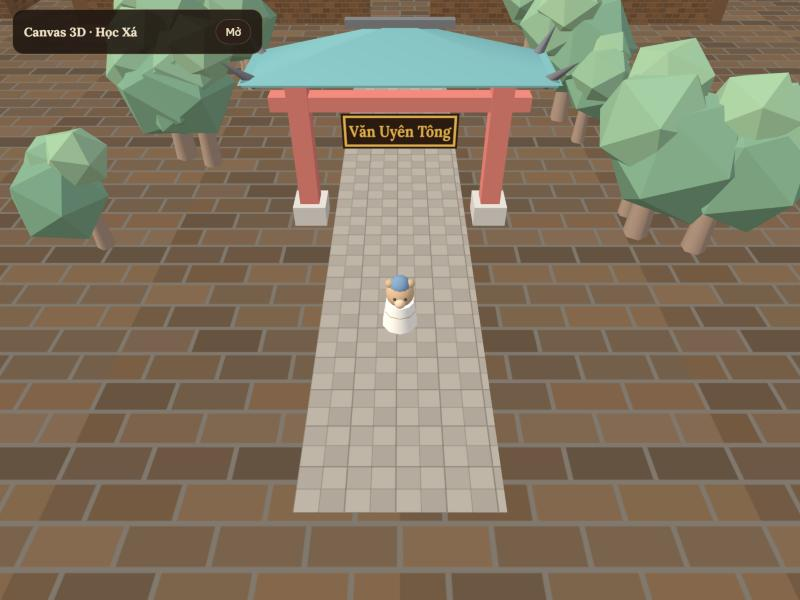
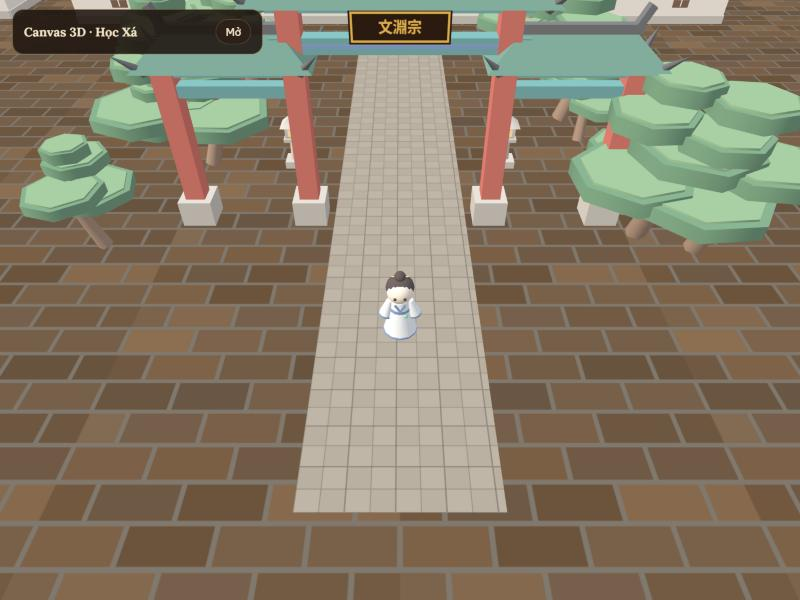
design 2026-11-11.2: bật phong cách Trung Hoa — tường vôi cổng trăng, tùng liễu mai, Văn Tháp, tên khu

diff --git a/docs/phieu_thiet_ke/2026-11-11-bat-phong-cach-trung-hoa.md b/docs/phieu_thiet_ke/2026-11-11-bat-phong-cach-trung-hoa.md
@@ -1,0 +1,53 @@
+# Phiếu: Bật phong cách Trung Hoa trong scene.json + đặt tên khu
+
+- Trạng thái: chờ thiết kế
+- Đợi bởi: kế hoạch `docs/tasks/2026-11-11-phong-cach-trung-hoa.md` (việc 12); đáp phần "Cần code" của 2026-11-11.1
+- Đã vẽ: 2026-11-11.2
+
+## Dán vào canvas
+
+```text
+PHIẾU THIẾT KẾ — Bật phong cách Trung Hoa + đặt tên khu (Học Xá 3D)
+
+Lệnh: /ui-design canh bật phong cách Trung Hoa — làm theo mục "Cảnh 3D" trong skill ui-design (bảng trường đã cập
+nhật). Phiên code đã dựng xong mọi mục "Cần code" của 2026-11-11.1.
+
+Đã tự đổi, không cần làm gì (code, theo bản mẫu): điện / giảng đường (nền đá + lan can, cột son, cửa bức bàn, xà
+lục-lam-vàng; điện mái hiên kép), nhà nhỏ, tháp bát giác, cổng 3 gian 4 trụ (xà 6,2 m — camera qua cổng không còn
+lọt sau biển), nhân vật đệ tử thay gấu.
+
+Cần bật trong design/scene/scene.json (mặc định vẫn giữ cảnh cũ cho tới khi bật):
+- walls.style: "voi" (+ walls.color màu vôi, walls.windows khoảng cách cửa sổ hoa) → tường vôi mái ngói, khe tường
+  bao thành cổng trăng. Đoạn tường khu (wallSegments) cũng thành tường vôi; khe giữa các đoạn vẫn là khe thường.
+- gates[]: "hanTitle" (vd. "文淵宗") và "roofColor" (ngói lưu ly lục).
+- Cây: đổi trees.yard / trees.groves sang "tung" (cây chính), "lieu" (quanh ao), "mai" (điểm nhấn); màu
+  trees.willow, trees.plum.
+- props mới: "da-thai-ho", "den-da", "dinh-dong" (cạnh lối đi, trước điện).
+- site: tên nơi + khu (hình chữ nhật from/to) để chip HUD hiện "<nơi> · <khu>" — đặt tên 6 khu đang có.
+- buildingStyle mới: beamBlue, gold, timber (đã có mặc định theo bảng màu phong_cach.md).
+Ví dụ đủ mọi thứ trên (bản thử của phiên code, toạ độ ước chừng — KHÔNG phải thiết kế):
+docs/phieu_thiet_ke/2026-11-11-phong-cach-mau.json. Đo bản thử: 67–90 draw call, ~66k tam giác.
+
+Kiểm: npm run scene:check "Không có lỗi"; Canvas 3D 3 góc ≤ 150 draw call; chụp gần bằng ?cam=x,y,z&tam=x,z.
+So với bản mẫu: chỗ nào trông khác nhiều thì ghi lại (sửa bản mẫu, hoặc ghi "Cần code").
+
+Luật phải theo (chép nguyên văn):
+- R-VA-1: Nhân vật (bán kính 0,5) không đi xuyên tường, nhà, cột cổng, giếng, ao / hồ, vật trang trí có va chạm
+  (đài tỉ thí, giá binh khí, lò đan…) và cây có va chạm (cây trong sân, cụm cây); đi qua được khe cổng trên tường.
+  Cây vòng ngoài tường, lối lát đá, đảo nổi, mây không có va chạm. Ví dụ: Mặt trong tường bắc ở z = −20,5 → đi thẳng
+  lên bắc thì dừng ở z = −20,0. Tường nam có khe cổng tâm x = 0 rộng 4: đi thẳng xuống nam ở x = 0 thì qua được; ở
+  x = 3 thì dừng ở z = 20,0.
+  → Với tường vôi, khe 4 m thành cổng trăng đi được 3,2 m (x −1,6…1,6); ví dụ vẫn đúng (đã mô phỏng).
+- R-HUD-1: Chip góc trên trái hiện "<tên nơi> · <tên khu>" khi nhân vật đứng trong một khu (hình chữ nhật đặt trong
+  đặc tả cảnh); đứng ngoài mọi khu thì chỉ hiện "<tên nơi>". Hai khu chồng nhau thì lấy khu khai báo trước. Đổi chữ
+  ngay khi bước qua ranh giới. Ví dụ: Tên nơi "Văn Uyên Tông", khu "Diễn Võ Trường" x 27…60, z −15…15: đứng ở
+  (43; 0) → "Văn Uyên Tông · Diễn Võ Trường"; đứng ở (24; 0) → "Văn Uyên Tông". Chưa đặt khu nào: "Học xá · Sân
+  chính" như cũ.
+  → Nếu đặt khu khác ví dụ (tên / ranh giới Diễn Võ Trường), ghi rõ để phiên code sửa ví dụ trong sổ.
+- R-VUNG-1: giữ giảng đường, thư viện đúng chỗ (vùng neo theo nhà). Lưu ý: nền giảng đường mới rộng hơn 1 m mỗi
+  bên (va chạm 15 × 9) — vùng lop-hsk3 vẫn đứng vào được (đã kiểm).
+
+Chuỗi mới: tên nơi + 6 tên khu (tiếng Việt, gợi ý theo tong_mon.md: Ngoại Môn, Sơn Môn, Diễn Võ Trường, Đệ Tử Cư
+Xá, Linh Dược Viên, Luyện Đan Phòng).
+App đang có: web/src/scene/kien_truc/*, cay_moi.ts, props.ts, player/discipleCharacter.ts, zones/areaTracker.ts.
+```

diff --git a/design/CHANGELOG.md b/design/CHANGELOG.md
@@ -3,6 +3,40 @@
 Mỗi lần chốt một mục, mới nhất ở trên. Mã `<YYYY-MM-DD>.<số>`. Mỗi mục: loại (token · chuỗi · giao diện ·
 luồng/luật · dữ liệu), màn / thành phần, phiếu đáp ứng (nếu có), file đổi.
 
+## 2026-11-11.2 — Bật phong cách Trung Hoa + đặt tên khu
+
+- Loại: cảnh 3D — **ngoại hình** (tường vôi, cổng, cây, màu) + **bố cục** nhỏ (thêm Văn Tháp, đồ trang trí, cây lẻ
+  có va chạm) · chuỗi (tên nơi + 6 khu).
+- Phiếu đáp ứng: `docs/phieu_thiet_ke/2026-11-11-bat-phong-cach-trung-hoa.md`.
+- Trường đã đổi (cũ → mới):
+  - `walls.style` gach → **voi**, `walls.color` #7a6e62 → #e8e1d2, `walls.windows` 0 → 6 (khe tường bao thành cổng
+    trăng, lối đi 0,8 × khe = 3,2 m).
+  - `gates[son-mon]` + `hanTitle` "文淵宗", `roofColor` #2b5446.
+  - `buildingStyle` + `beamBlue` #3f5fa0, `gold` #d4a64a, `timber` #3a2418.
+  - Mái lưu ly lục #3e6b5a → **#2b5446** (giảng đường, Dược các, cổng).
+  - Nhà mới `van-thap` (`thap`, 5 tầng) tâm (−14,5; −14,5) 5×5.
+  - Cây: mọi `yard` cũ + cụm cây chính → `tung`; thêm `yard` mai (±8,5; −4), (−36; −26), (−54; −26), liễu (−50,5; 15,5),
+    (−50; 6,5), (−41; 16,5); hàng sau Cư Xá → `mai`; rìa cảnh thêm cụm mai / liễu (không va chạm).
+    `trees.willow` #5f8a3e/#7a9f4c, `trees.plum` #3a2418/#e88aa4/#f2b8c6.
+  - `props` +11: `dinh-dong` (0; −0,5); `den-da` (±3,5; −4,8), (±4,5; 40), (−47,5; −22), (−42,5; −22); `da-thai-ho`
+    (−16; −6), (−40; 7), (−56; 15), (16; 16).
+  - `buildings[giang-duong].notice` "Buổi tối" → "Buổi sáng" (trời đã là ban ngày).
+  - **`site`**: tên nơi "Văn Uyên Tông"; khu (thứ tự khai báo): Sơn Môn x −6…6 z 21…56 · Ngoại Môn ±21 · **Diễn Võ
+    Trường x 27…60, z −15…15** · Đệ Tử Cư Xá x 27…60 z 21…45 · Linh Dược Viên x −62…−27 z −15…20 · Luyện Đan Phòng
+    x −62…−27 z −42…−21.
+- `npm run scene:check`: **Không có lỗi**. Draw call: trên xuống 85–86 · cả sân 62 · góc chơi 62 (≤ 150, đo trên máy
+  tính); ~80k tam giác.
+- Kiểm đi tới được (code app, bán kính 0,5): tới được mọi khu, qua 3 cổng trăng + cổng sơn môn; vùng `lop-hsk3` đứng
+  vào được 44 % ô lưới, `thu-vien` 38 % — **bằng đúng cảnh gốc trên code mới** (nền giảng đường rộng hơn), đồ trang
+  trí không lấn vùng.
+- Luật: `R-VA-1` ví dụ đúng (bắc dừng z −20,0; nam ở x 3 dừng z 20,0; x 0 qua khe). `R-HUD-1` ví dụ đúng (Diễn Võ
+  Trường đúng ranh giới; (24; 0) ngoài mọi khu → "Văn Uyên Tông"). `R-VUNG-1` không đổi.
+- Chuỗi mới: `l10n/vi.arb` (`siteName`, `area*`).
+- **Cần code** (không gấp, chi tiết `scene/phong_cach.md` mục "Còn khác bản mẫu"): liễu mềm hơn (dải mảnh, cong, so
+  le); đảo nổi có mặt cỏ, cây, đá; khe giữa đoạn tường khu thành cổng trăng.
+- Ảnh: `screens/Canh-tren.png`, `Canh-ca-san.png` (chụp lại), `Canh-giang-duong.png` (mới).
+- File: `scene/scene.json`, `scene/phong_cach.md`, `scene/tong_mon.md`, `l10n/vi.arb`, `screens/*.png`.
+
 ## 2026-11-11.1 — Tông môn đợt 1: đặt 6 khu phẳng + bảng màu + bản mẫu phong cách Trung Hoa
 
 - Loại: cảnh 3D — **bố cục** (6 khu, điểm xuất phát, khe cổng) + **ngoại hình** (bảng màu, trời, đèn).

diff --git a/design/scene/phong_cach.md b/design/scene/phong_cach.md
@@ -11,6 +11,22 @@ giữ một phong cách đồng nhất, nhẹ cho điện thoại, chạy offlin
 Tinh thần: 粉牆黛瓦 · 朱柱青檐 — tường vôi, ngói xám đen, cột son, xà vẽ xanh lục – lam (thanh lục thái hoạ), nền
 đá trắng có lan can, đầu đao cong.
 
+## Trạng thái
+
+- 2026-11-11.1: bản mẫu + bảng màu; "Cần code" bên dưới.
+- **2026-11-11.2: phiên code đã dựng xong mọi mục "Cần code"; đã bật trong `scene.json`** — tường vôi + cổng trăng,
+  cổng 文淵宗, tùng / liễu / mai, đá Thái Hồ, đèn đá, đỉnh đồng, Văn Tháp, nhân vật đệ tử, tên khu (HUD). Ảnh:
+  `screens/Canh-tren.png`, `Canh-ca-san.png`, `Canh-giang-duong.png`.
+- Chỉnh khi bật: ngói lưu ly lục `#3E6B5A` → **`#2B5446`** (dưới nắng chiều trông nhạt như bạc hà); lá liễu đậm hơn.
+
+### Còn khác bản mẫu (Cần code, không gấp)
+
+1. **Liễu** trông như "con sứa": dải rủ thẳng, dày, đều quanh tán vòm. Muốn: dải mảnh hơn, cong nhẹ, dài ngắn so le,
+   tán bớt tròn đều.
+2. **Đảo nổi** là hình nón ngược trơn. Muốn: mặt trên phẳng có cỏ, vài cây tùng nhỏ, đá lởm chởm phía dưới, có
+   thể một đình nhỏ trên đảo lớn nhất.
+3. **Khe giữa các đoạn tường khu** (`wallSegments`) vẫn là khe thường, chưa thành cổng trăng như khe tường bao.
+
 ## Bảng màu cảnh (đã áp vào `scene.json`)
 
 | Vai trò | Màu | Trường |

diff --git a/design/scene/tong_mon.md b/design/scene/tong_mon.md
@@ -24,6 +24,11 @@ hiện chưa tả được, phiên code làm trước (mục "Cần code" bên d
 | 6 Luyện Đan Phòng | lối x −45 từ z −15 tới −31 | điện `luyen-dan` (−45; −36) 12×8 mái cong, 2 lò đan (−49; −26), (−41; −26), hàng cây z −45 |
 | 10 Phù Không Đảo | 3 đảo nổi ở rìa bắc, 10 mây độ cao 34 | không va chạm |
 
+Thêm ở 2026-11-11.2: **Văn Tháp** (tháp 5 tầng) tâm (−14,5; −14,5) góc tây bắc Ngoại Môn; đỉnh đồng (0; −0,5); đèn
+đá cạnh bậc giảng đường (±3,5; −4,8), sau cổng (±4,5; 40), trước Luyện Đan (−47,5 / −42,5; −22); đá Thái Hồ ×4; mai
+(±8,5; −4), (−36 / −54; −26); liễu quanh ao. Tên khu (`site.areas`, chip HUD) đúng ranh giới bảng trên; Sơn Môn
+x −6…6, z 21…56.
+
 Rìa cảnh: cụm cây trang trí (không va chạm) bắc / tây / đông / nam; vòng cây ngoài tường tắt (`ring.count` 0).
 
 ## Các khu (quy hoạch ban đầu)
